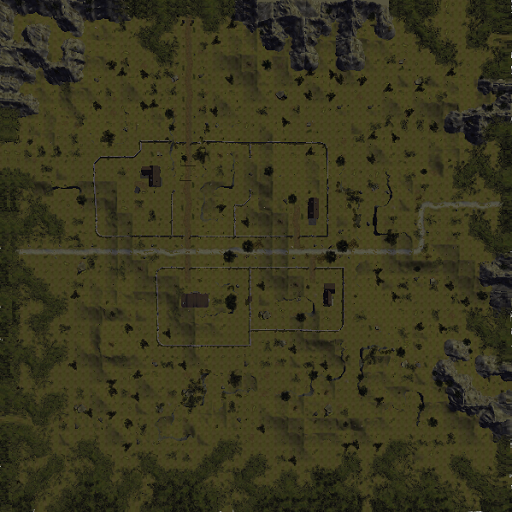
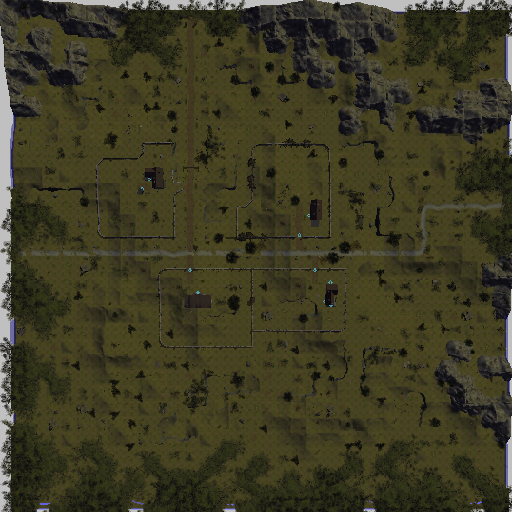
v211115

diff --git a/common.js b/common.js
@@ -7,46 +7,46 @@ var Loader = {
 };
 
 var map = {
-    cols: 29,
+    cols: 30,
     rows: 15,
     tsize: 512,
     csize: 256,
     csize_noscr: 100,
     layers: [[
-        //1              2                3              4              5              6                  7                 8                  9                  10                 11                 12                 13                 14                 15                 16                 17                 18                 19                 20                21                22                     23                 24                 25                 26              27          28           29            
-        '0map',          '0map',          '0map',        '0map',        '0map',         '0map',            '0map',           '0map',            '0map',            '0map',            '0map',            '0map',            '0map',            '0map',            '0map',            '0map',            '0map',            '0map',            '0map',            '0map',           '0map',           '0map',                '0map',            '0map',            '0map',            '0map',         '0map',     '0map',      '0map',
-        '0map',          '0map',          '0map',        '0map',        '0map',         '0map',            '0map',           '0map',            '0map',            '0map',            '0map',            '0map',            '0map',            '0map',            '0map',            '0map',            '0map',            '0map',            '0map',            '0map',           '0map',           '0map',                't_varyth_torf_w', 't_varyth_tor',    't_varyth_torf_e', '0map',         '0map',     '0map',      '0map',
-        't_zazesspur_nw','t_zazesspur_ne','0map',        '0map',        '0map',         '0map',            '0map',           '0map',            '0map',            '0map',            '0map',            '0map',            '0map',            '0map',            '0map',            '0map',            '0map',            '0map',            't_lhestyn_quay',  't_masamont_road','t_masamount',    't_masamount_wudn',    't_varyth_torf_sw','t_varyth_torf_s', 't_varyth_torf_se','0map',         '0map',     '0map',      '0map',
-        't_zazesspur_sw','t_zazesspur_se','t_venazir_ne','SulZaz2',     '0map',         '0map',            't_tethyrcast_nw','t_tethyrcast_n',  't_tethyrcast_ne', 'SuldusBard1',     '0map',            'IthmonSulW',      't_hostim_quay',   'IthmonSulE',      'IthmonSulE1',     'IthmonSulE2',     't_grannox',       't_grannox_farms', 't_lhestynheart',  't_freelm_farms', 't_freelmanse',   't_masamount_wuds',    't_varyth_plain_w','t_varyth_plain_c','t_varyth_plain_e','0map',         '0map',     '0map',      '0map',
-        't_venazir_sw',  't_venazir_s',   't_venazir_se','SulZaz3',     'SulZaz4',      'SulZaz5',         't_tethyrcast_w', 't_tethyrcast',    't_tethyrcast_e',  'SuldusBard2',     'SuldusBard3',     'SuldusBard4',     't_hostim',        '0map',            '0map',            '0map',            't_lhest_gorge',   't_lhest_farm_sw', 't_lhest_farm_s',  't_lhest_farm_se','t_rivshrehill_n','t_rivshrehill_ne',    't_varyth_hill_nw','t_varyth_hill_n', 't_varyth_hill_ne','t_iltarghal',  '0map',     't_survale', '0map',
-        '0map',          '0map',          'OldKingRoad1','OldKingRoad2','OldKingRoad3', 'OldKingRoad4',    't_tethyrcast_sw','t_tethyrcast_s',  't_tethyrcast_se', '0map',            '0map',            '0map',            't_hostim_road',   't_hostim_hille1', 't_hostim_hille2', 't_hostim_hille3', 't_qonsir',        't_qonsir_farm',   't_lhest_road',    't_rivshrehill_w','t_rivshrehill_c','t_st_ostus',          't_varyth_hill_sw','t_varyth_hill_s', 't_varyth_hill_se','0map',         '0map',     '0map',      '0map',
-        '0map',          '0map',          '0map',        '0map',        '0map',         't_sahark_crossrd','t_saharkhan',    't_bardshy_itr_1', 't_bardshy_itr_2', 't_bardshy_itr_3', 't_bardshy_itr_4', 't_ithmon_ithr_w1','t_ithmon_ithr_w2','t_ithmon_lorcros','t_ithmon_ithr_e1','t_ithmon_ithr_e2','t_rvrshr_ithrdw', 't_crownfarms_nw', 't_crownfarms_n',  't_crownfarms_ne','t_rivshrehill_s','t_rivshrehill_se',    '0map',            '0map',            '0map',            '0map',         '0map',     '0map',      '0map',
-        '0map',          '0map',          '0map',        '0map',        '0map',         'SoldiersRoad1',   '0map',           '0map',            '0map',            '0map',            '0map',            '0map',            't_ithmon_farm_nw','t_ithmon_farm_n', 't_ithmon_farm_ne','t_loransewood_n', 't_crownfarms_iw2','t_crownfarms_iw1','t_darromar',      't_foyen_rd',     't_foyen',        '0map',                '0map',            '0map',            '0map',            '0map',         '0map',     '0map',      '0map',
-        '0map',          '0map',          '0map',        '0map',        '0map',         'SoldiersRoad2',   '0map',           '0map',            '0map',            '0map',            '0map',            '0map',            't_ithmon_farm_w', 't_ithmon_loranse','t_ithmon_farm_e', 't_loransewood_s', '0map',            't_clov_fld_nw',   't_clov_fld_itr_n','0map',           '0map',           '0map',                '0map',            '0map',            '0map',            '0map',         '0map',     '0map',      '0map',
-        '0map',          't_vineshade',   '0map',        '0map',        '0map',         't_krennasar',     '0map',           '0map',            '0map',            '0map',            '0map',            '0map',            '0map',            '0map',            '0map',            '0map',            't_ruba',          '0map',            't_clov_fld_itr_s','0map',           '0map',           '0map',                '0map',            '0map',            '0map',            '0map',         '0map',     '0map',      '0map',
-        '0map',          '0map',          '0map',        '0map',        '0map',         '0map',            '0map',           '0map',            '0map',            '0map',            '0map',            '0map',            '0map',            '0map',            '0map',            '0map',            '0map',            '0map',            '0map',            't_abbor',        '0map',           '0map',                '0map',            '0map',            '0map',            '0map',         '0map',     '0map',      '0map',
-        '0map',          '0map',          '0map',        't_refields_n','t_refields_ne','0map',            '0map',           '0map',            '0map',            '0map',            '0map',            '0map',            '0map',            '0map',            '0map',            '0map',            '0map',            '0map',            '0map',            '0map',           '0map',           '0map',                '0map',            '0map',            '0map',            '0map',         '0map',     '0map',      '0map',
-        '0map',          '0map',          't_myratma_w', 't_myratma_e', 't_refields_e', '0map',            '0map',           '0map',            '0map',            '0map',            '0map',            '0map',            '0map',            '0map',            '0map',            '0map',            '0map',            '0map',            '0map',            '0map',           '0map',           '0map',                '0map',            '0map',            '0map',            '0map',         '0map',     '0map',      '0map',   
-        '0map',          '0map',          '0map',        '0map',        '0map',         '0map',            '0map',           '0map',            '0map',            '0map',            '0map',            '0map',            '0map',            '0map',            '0map',            '0map',            '0map',            '0map',            '0map',            '0map',           '0map',           '0map',                '0map',            '0map',            '0map',            '0map',         '0map',     '0map',      '0map',
-        '0map',          '0map',          '0map',        '0map',        '0map',         '0map',            '0map',           '0map',            '0map',            '0map',            '0map',            '0map',            '0map',            '0map',            '0map',            '0map',            '0map',            '0map',            '0map',            '0map',           '0map',           '0map',                '0map',            '0map',            '0map',            '0map',         '0map',     '0map',      '0map'
+        //1              2                3              4              5               6                  7                 8                  9                  10                 11                 12                 13                 14                 15                 16                 17                 18                 19                 20                21                22                     23                 24                 25                 26              27                  28             29             30
+        '0map',          '0map',          '0map',        '0map',        '0map',         '0map',            '0map',           '0map',            '0map',            '0map',            '0map',            '0map',            '0map',            '0map',            '0map',            '0map',            '0map',            '0map',            '0map',            '0map',           '0map',           '0map',                '0map',            '0map',            '0map',            '0map',         '0map',             '0map',        '0map',        '0map',       
+        '0map',          '0map',          '0map',        '0map',        '0map',         '0map',            '0map',           '0map',            '0map',            '0map',            '0map',            '0map',            '0map',            '0map',            '0map',            '0map',            '0map',            '0map',            '0map',            '0map',           '0map',           '0map',                't_varyth_torf_w', 't_varyth_tor',    't_varyth_torf_e', '0map',         '0map',             '0map',        '0map',        '0map',       
+        't_zazesspur_nw','t_zazesspur_ne','0map',        '0map',        '0map',         '0map',            '0map',           '0map',            '0map',            '0map',            '0map',            '0map',            '0map',            '0map',            '0map',            '0map',            '0map',            '0map',            't_lhestyn_quay',  't_masamont_road','t_masamount',    't_masamount_wudn',    't_varyth_torf_sw','t_varyth_torf_s', 't_varyth_torf_se','0map',         '0map',             '0map',        '0map',        '0map',       
+        't_zazesspur_sw','t_zazesspur_se','t_venazir_ne','SulZaz2',     '0map',         '0map',            't_tethyrcast_nw','t_tethyrcast_n',  't_tethyrcast_ne', 'SuldusBard1',     '0map',            'IthmonSulW',      't_hostim_quay',   'IthmonSulE',      'IthmonSulE1',     'IthmonSulE2',     't_grannox',       't_grannox_farms', 't_lhestynheart',  't_freelm_farms', 't_freelmanse',   't_masamount_wuds',    't_varyth_plain_w','t_varyth_plain_c','t_varyth_plain_e','0map',         '0map',             '0map',        '0map',        '0map',       
+        't_venazir_sw',  't_venazir_s',   't_venazir_se','SulZaz3',     'SulZaz4',      'SulZaz5',         't_tethyrcast_w', 't_tethyrcast',    't_tethyrcast_e',  'SuldusBard2',     'SuldusBard3',     'SuldusBard4',     't_hostim',        '0map',            '0map',            '0map',            't_lhest_gorge',   't_lhest_farm_sw', 't_lhest_farm_s',  't_lhest_farm_se','t_rivshrehill_n','t_rivshrehill_ne',    't_varyth_hill_nw','t_varyth_hill_n', 't_varyth_hill_ne','t_iltarghal',  '0map',             't_survale',   '0map',        '0map',       
+        '0map',          '0map',          'OldKingRoad1','OldKingRoad2','OldKingRoad3', 'OldKingRoad4',    't_tethyrcast_sw','t_tethyrcast_s',  't_tethyrcast_se', '0map',            '0map',            't_hostim_hill_w', 't_hostim_road',   't_hostim_hill_e', 't_hostim_hille2', 't_hostim_hille3', 't_qonsir',        't_qonsir_farm',   't_lhest_road',    't_rivshrehill_w','t_rivshrehill_c','t_st_ostus',          't_varyth_hill_sw','t_varyth_hill_s', 't_varyth_hill_se','0map',         '0map',             '0IthalRoadNS',        '0map',        '0map',       
+        '0map',          '0map',          '0map',        '0map',        '0map',         't_sahark_crossrd','t_saharkhan',    't_bardshy_itr_1', 't_bardshy_itr_2', 't_bardshy_itr_3', 't_bardshy_itr_4', 't_ithmon_ithr_w1','t_ithmon_ithr_w2','t_ithmon_lorcros','t_ithmon_ithr_e1','t_ithmon_ithr_e2','t_rvrshr_ithrdw', 't_crownfarms_nw', 't_crownfarms_n',  't_crownfarms_ne','t_rivshrehill_s','t_rivshrehill_se',    '0map',            '0map',            't_thrynnar_hold', '0IthalRoadWE', '0IthalRoadWE',     '0IthalRoadEN','0IthalRoadWS','0map',       
+        '0map',          '0map',          '0map',        '0map',        '0map',         'SoldiersRoad1',   '0map',           '0map',            '0map',            '0map',            '0map',            '0map',            't_ithmon_farm_nw','t_ithmon_farm_n', 't_ithmon_farm_ne','t_loransewood_n', 't_crownfarms_iw2','t_crownfarms_iw1','t_darromar',      't_foyen_rd',     't_foyen',        '0map',                '0map',            '0map',            '0IthalRoadNS',    '0map',         '0map',             '0map',        '0IthalRoadEN','t_veaddakar',       
+        '0map',          '0map',          '0map',        't_dasaajk',   '0map',         'SoldiersRoad2',   '0map',           '0map',            '0map',            '0map',            '0map',            '0map',            't_ithmon_farm_w', 't_ithmon_loranse','t_ithmon_farm_e', 't_loransewood_s', '0map',            't_clov_fld_nw',   't_clov_fld_itr_n','0map',           '0map',           '0map',                '0IthalRoadES',    '0IthalRoadWE',    '0IthalRoadWN',    '0map',         '0map',             '0map',        '0map',        '0map',       
+        '0map',          't_vineshade',   '0map',        '0map',        '0map',         't_krennasar',     '0map',           '0map',            '0map',            '0map',            '0map',            '0map',            '0map',            '0map',            '0map',            '0map',            't_ruba',          '0map',            't_clov_fld_itr_s','0IthalRoadWE',   '0IthalRoadWE',   '0IthalRoadWE',        '0IthalRoadWS',    '0map',            '0map',            '0map',         '0map',             '0map',        '0map',        '0map',       
+        '0map',          '0map',          '0map',        '0map',        '0map',         '0map',            '0map',           '0map',            '0map',            '0map',            '0map',            '0map',            '0map',            '0map',            '0map',            '0map',            '0map',            '0map',            '0map',            't_abbor',        '0map',           '0map',                '0IthalRoadEN',    '0IthalRoadWE',    '0IthalRoadWE',    '0IthalRoadWE', '0IthalRoadWS',     '0map',        '0map',        '0map',       
+        '0map',          '0map',          '0map',        't_refields_n','t_refields_ne','0map',            '0map',           '0map',            '0map',            '0map',            '0map',            '0map',            '0map',            '0map',            '0map',            '0map',            '0map',            '0map',            '0map',            '0map',           '0map',           '0map',                't_mistletoe',     '0map',            '0map',            '0map',         '0IthalRoadEN',     '0IthalRoadWE','0IthalRoadWE','t_barakmordin',       
+        '0map',          '0map',          't_myratma_w', 't_myratma_e', 't_refields_e', '0map',            '0map',           't_maratimmir',    '0map',            '0map',            '0map',            '0map',            '0map',            '0map',            '0map',            '0map',            '0map',            '0map',            '0map',            '0map',           '0map',           '0map',                '0map',            '0map',            '0map',            '0map',         '0map',             '0map',        '0map',        '0map',       
+        '0map',          '0map',          '0map',        '0map',        '0map',         '0map',            '0map',           '0map',            '0map',            '0map',            '0map',            '0map',            '0map',            '0map',            '0map',            '0map',            '0map',            '0map',            '0map',            '0map',           '0map',           '0map',                '0map',            '0map',            '0map',            't_magis_tor',  '0map',             '0map',        '0map',        '0map',       
+        '0map',          '0map',          '0map',        '0map',        '0map',         '0map',            '0map',           '0map',            '0map',            '0map',            '0map',            '0map',            '0map',            '0map',            '0map',            '0map',            '0map',            '0map',            '0map',            '0map',           '0map',           '0map',                '0map',            '0map',            '0map',            '0map',         '0map',             '0map',        't_adarthir',  '0map'
     ], [
-      //                  10                  20  
+      //                  10                  20                  30
       //1 2 3 4 5 6 7 8 9   1 2 3 4 5 6 7 8 9   1 2 3 4 5 6 7 8 9
-        0,0,0,0,0,0,0,0,0,0,0,0,0,0,0,0,0,0,0,0,0,0,0,0,0,0,0,0,0,     
-        0,0,0,0,0,0,0,0,0,0,0,0,0,0,0,0,0,0,0,0,0,0,0,0,0,0,0,0,0,
-        0,0,0,0,0,0,0,0,0,0,0,0,0,0,0,0,0,0,0,0,0,0,0,0,0,0,0,0,0,
-        0,0,0,0,0,0,0,0,0,0,0,0,0,0,0,0,0,0,0,0,0,0,0,0,0,0,0,0,0,
-        0,0,0,0,0,0,0,0,0,0,0,0,0,0,0,0,0,0,0,0,0,0,0,0,0,0,0,0,0,
-        0,0,0,0,0,0,0,0,0,0,0,0,0,0,0,0,0,0,0,0,0,0,0,0,0,0,0,0,0,
-        0,0,0,0,0,0,0,0,0,0,0,0,0,0,0,0,0,0,0,0,0,0,0,0,0,0,0,0,0,
-        0,0,0,0,0,0,0,0,0,0,0,0,0,0,0,0,0,0,0,0,0,0,0,0,0,0,0,0,0,
-        0,0,0,0,0,0,0,0,0,0,0,0,0,0,0,0,0,0,0,0,0,0,0,0,0,0,0,0,0,
-        0,0,0,0,0,0,0,0,0,0,0,0,0,0,0,0,0,0,0,0,0,0,0,0,0,0,0,0,0,
-        0,0,0,0,0,0,0,0,0,0,0,0,0,0,0,0,0,0,0,0,0,0,0,0,0,0,0,0,0,
-        0,0,0,0,0,0,0,0,0,0,0,0,0,0,0,0,0,0,0,0,0,0,0,0,0,0,0,0,0,
-        0,0,0,0,0,0,0,0,0,0,0,0,0,0,0,0,0,0,0,0,0,0,0,0,0,0,0,0,0,
-        0,0,0,0,0,0,0,0,0,0,0,0,0,0,0,0,0,0,0,0,0,0,0,0,0,0,0,0,0,
-        0,0,0,0,0,0,0,0,0,0,0,0,0,0,0,0,0,0,0,0,0,0,0,0,0,0,0,0,0
+        0,0,0,0,0,0,0,0,0,0,0,0,0,0,0,0,0,0,0,0,0,0,0,0,0,0,0,0,0,0,     
+        0,0,0,0,0,0,0,0,0,0,0,0,0,0,0,0,0,0,0,0,0,0,0,0,0,0,0,0,0,0,
+        0,0,0,0,0,0,0,0,0,0,0,0,0,0,0,0,0,0,0,0,0,0,0,0,0,0,0,0,0,0,
+        0,0,0,0,0,0,0,0,0,0,0,0,0,0,0,0,0,0,0,0,0,0,0,0,0,0,0,0,0,0,
+        0,0,0,0,0,0,0,0,0,0,0,0,0,0,0,0,0,0,0,0,0,0,0,0,0,0,0,0,0,0,
+        0,0,0,0,0,0,0,0,0,0,0,0,0,0,0,0,0,0,0,0,0,0,0,0,0,0,0,0,0,0,
+        0,0,0,0,0,0,0,0,0,0,0,0,0,0,0,0,0,0,0,0,0,0,0,0,0,0,0,0,0,0,
+        0,0,0,0,0,0,0,0,0,0,0,0,0,0,0,0,0,0,0,0,0,0,0,0,0,0,0,0,0,0,
+        0,0,0,0,0,0,0,0,0,0,0,0,0,0,0,0,0,0,0,0,0,0,0,0,0,0,0,0,0,0,
+        0,0,0,0,0,0,0,0,0,0,0,0,0,0,0,0,0,0,0,0,0,0,0,0,0,0,0,0,0,0,
+        0,0,0,0,0,0,0,0,0,0,0,0,0,0,0,0,0,0,0,0,0,0,0,0,0,0,0,0,0,0,
+        0,0,0,0,0,0,0,0,0,0,0,0,0,0,0,0,0,0,0,0,0,0,0,0,0,0,0,0,0,0,
+        0,0,0,0,0,0,0,0,0,0,0,0,0,0,0,0,0,0,0,0,0,0,0,0,0,0,0,0,0,0,
+        0,0,0,0,0,0,0,0,0,0,0,0,0,0,0,0,0,0,0,0,0,0,0,0,0,0,0,0,0,0,
+        0,0,0,0,0,0,0,0,0,0,0,0,0,0,0,0,0,0,0,0,0,0,0,0,0,0,0,0,0,0
     ]],
     getTile: function (layer, col, row) {
         return this.layers[layer][row * map.cols + col];

diff --git a/maps/no-scroll.html b/maps/no-scroll.html
@@ -30,7 +30,7 @@
 
 <div class="main-wrapper">
     <div id='d1' style="position:relative; top:0%; left:auto; z-index:1"> 
-        <canvas id="demo" width="2900" height="1500"></canvas>
+        <canvas id="demo" width="3000" height="1500"></canvas>
     </div>
 <!--
     <footer class="main-footer">
